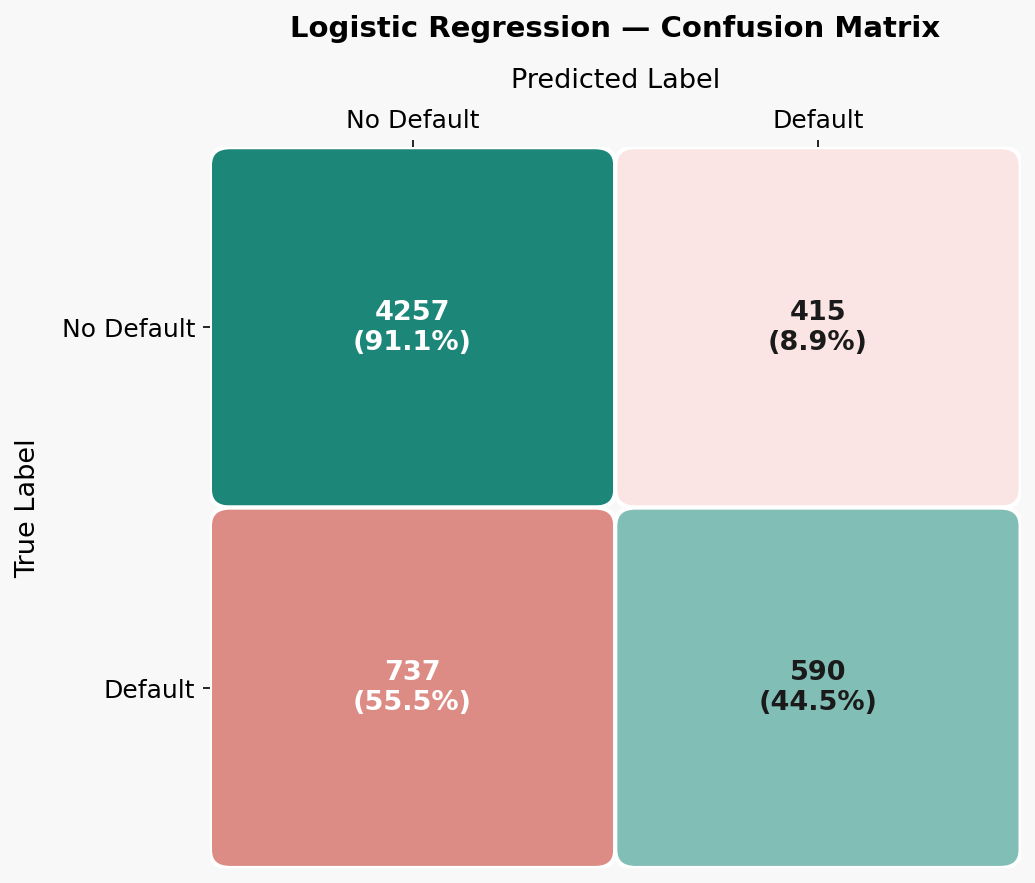
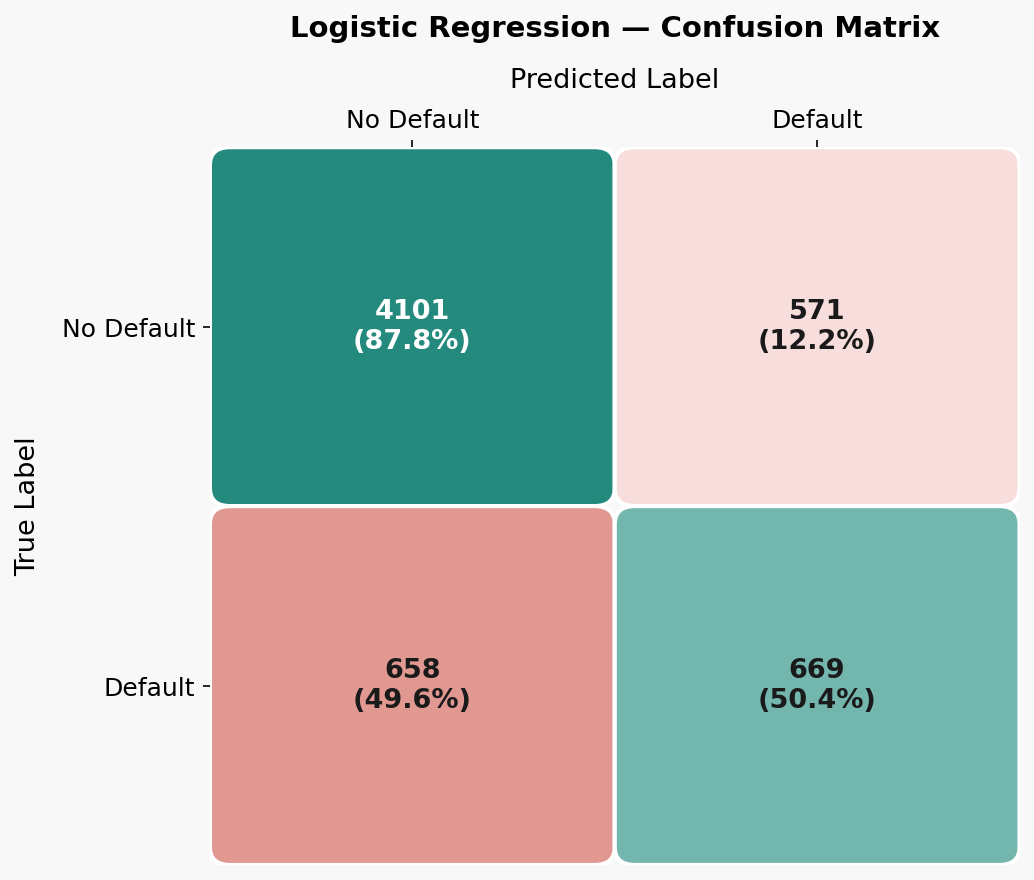
Update repo

diff --git a/utils.py b/utils.py
@@ -2,7 +2,6 @@
 utils.py
 --------
 Shared metrics and visualisation utilities.
-Only numpy and matplotlib — no scikit-learn.
 """
 
 import numpy as np
@@ -79,22 +78,7 @@ def plot_confusion_matrix(
     title: str = "Confusion Matrix",
     save_path: str = None,
 ) -> None:
-    """
-    Plot a styled confusion matrix.
 
-    Diagonal cells (correct predictions) are shown in blue-green tones.
-    Off-diagonal cells (errors) are shown in warm red tones.
-    Each cell shows the raw count and the percentage of the true class total.
-
-    Parameters
-    ----------
-    y_true      : ground-truth labels
-    y_pred      : predicted labels
-    class_names : list of strings for axis tick labels.
-                  Defaults to the sorted unique values of y_true.
-    title       : plot title
-    save_path   : if provided, saves the figure to this path
-    """
     y_true = np.asarray(y_true).flatten()
     y_pred = np.asarray(y_pred).flatten()
 
@@ -104,7 +88,7 @@ def plot_confusion_matrix(
     if class_names is None:
         class_names = [str(c) for c in classes]
 
-    # Build confusion matrix from scratch
+    # Build confusion matrix
     cm = np.zeros((n_classes, n_classes), dtype=np.int64)
     for true_idx, true_cls in enumerate(classes):
         for pred_idx, pred_cls in enumerate(classes):
@@ -128,15 +112,12 @@ def plot_confusion_matrix(
 
     fig, ax = plt.subplots(figsize=(5 + n_classes, 4 + n_classes))
 
-    # Normalise each cell independently against its own colour range
-    # so both small and large matrices look good
     for true_idx in range(n_classes):
         for pred_idx in range(n_classes):
             value    = cm[true_idx, pred_idx]
             pct      = cm_pct[true_idx, pred_idx]
             is_diag  = (true_idx == pred_idx)
 
-            # Colour intensity proportional to percentage within its cmap
             intensity = pct / 100.0
             colour = (correct_cmap(intensity) if is_diag
                       else error_cmap(intensity))
@@ -165,7 +146,7 @@ def plot_confusion_matrix(
 
     # ── Axes formatting ────────────────────────────────────────────────────
     ax.set_xlim(-0.5, n_classes - 0.5)
-    ax.set_ylim(n_classes - 0.5, -0.5)      # invert y so row 0 is at top
+    ax.set_ylim(n_classes - 0.5, -0.5)
 
     ax.set_xticks(range(n_classes))
     ax.set_yticks(range(n_classes))

diff --git a/tune_lr_threshold.py b/tune_lr_threshold.py
@@ -10,12 +10,12 @@ Pipeline:
          - Run k-fold CV on X_train
          - Train LR on each CV-train fold
          - Predict probabilities on each CV-val fold
-         - Compute recall at this threshold on each fold
-         - Average recall across k folds
-    3. Select threshold with highest average CV recall
+         - Compute F1 at this threshold on each fold
+         - Average F1 across k folds
+    3. Select threshold with highest average CV F1
     4. Train final LR on full X_train with best threshold
     5. Evaluate on held-out X_test and print all metrics
-    6. Plot average CV recall (and precision/F1 for context)
+    6. Plot average CV F1 (and precision/F1 for context)
        vs threshold
 """
 

diff --git a/results_table.py b/results_table.py
@@ -16,7 +16,7 @@ import matplotlib.patches as mpatches
 RESULTS = [
     # (Model name,             Accuracy, Precision, Recall,  F1)
     ("kNN",                    0.7821,     0.5068,  0.5614,  0.5327),
-    ("Logistic Regression",    0.8080,      0.5871,  0.4446,  0.5060),
+    ("Logistic Regression",    0.7951,      0.5395,  0.5041,  0.5212),
     ("Decision Tree",          0.7950,      0.5371,  0.5298,  0.5334),
     ("Neural Network",         0.8015,      0.5501,  0.5622,  0.5561),
 ]

diff --git a/lr.py b/lr.py
@@ -90,7 +90,7 @@ weights, losses = fit_logistic_regression(
 # 6. EVALUATE MODEL
 # ----------------------------
 y_prob = predict_proba(X_test, weights)
-y_pred = predict(X_test, weights, threshold=0.59)
+y_pred = predict(X_test, weights, threshold=0.55)
 
 acc = accuracy_score(y_test, y_pred)
 prec = precision_score(y_test, y_pred)
